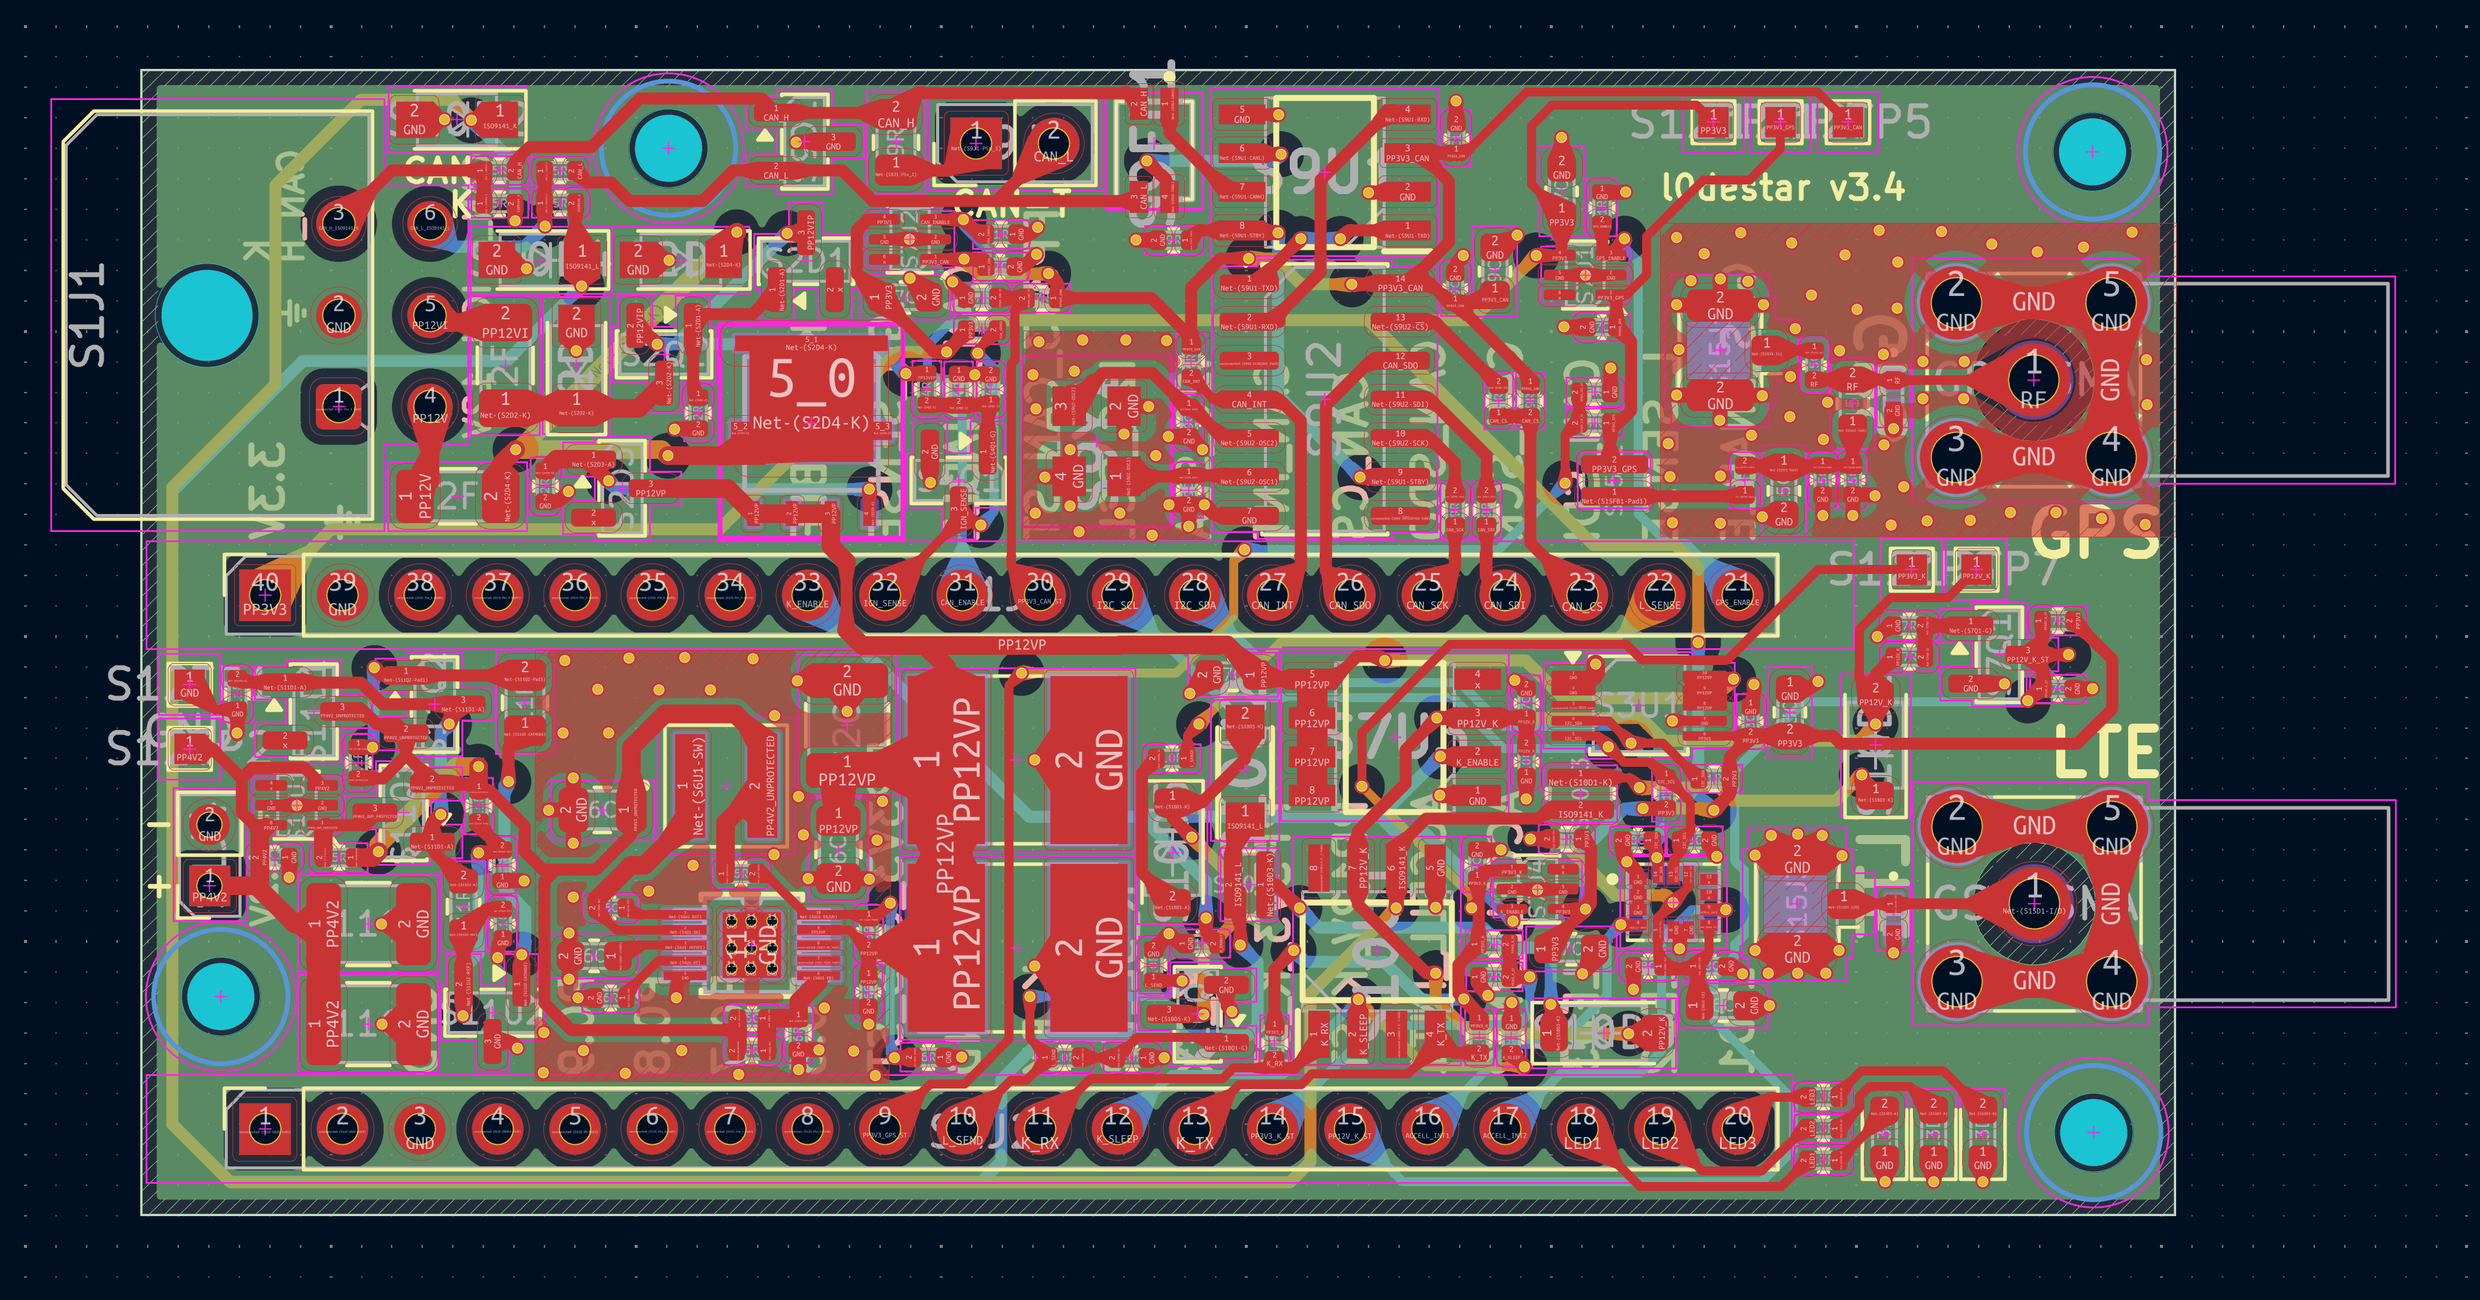
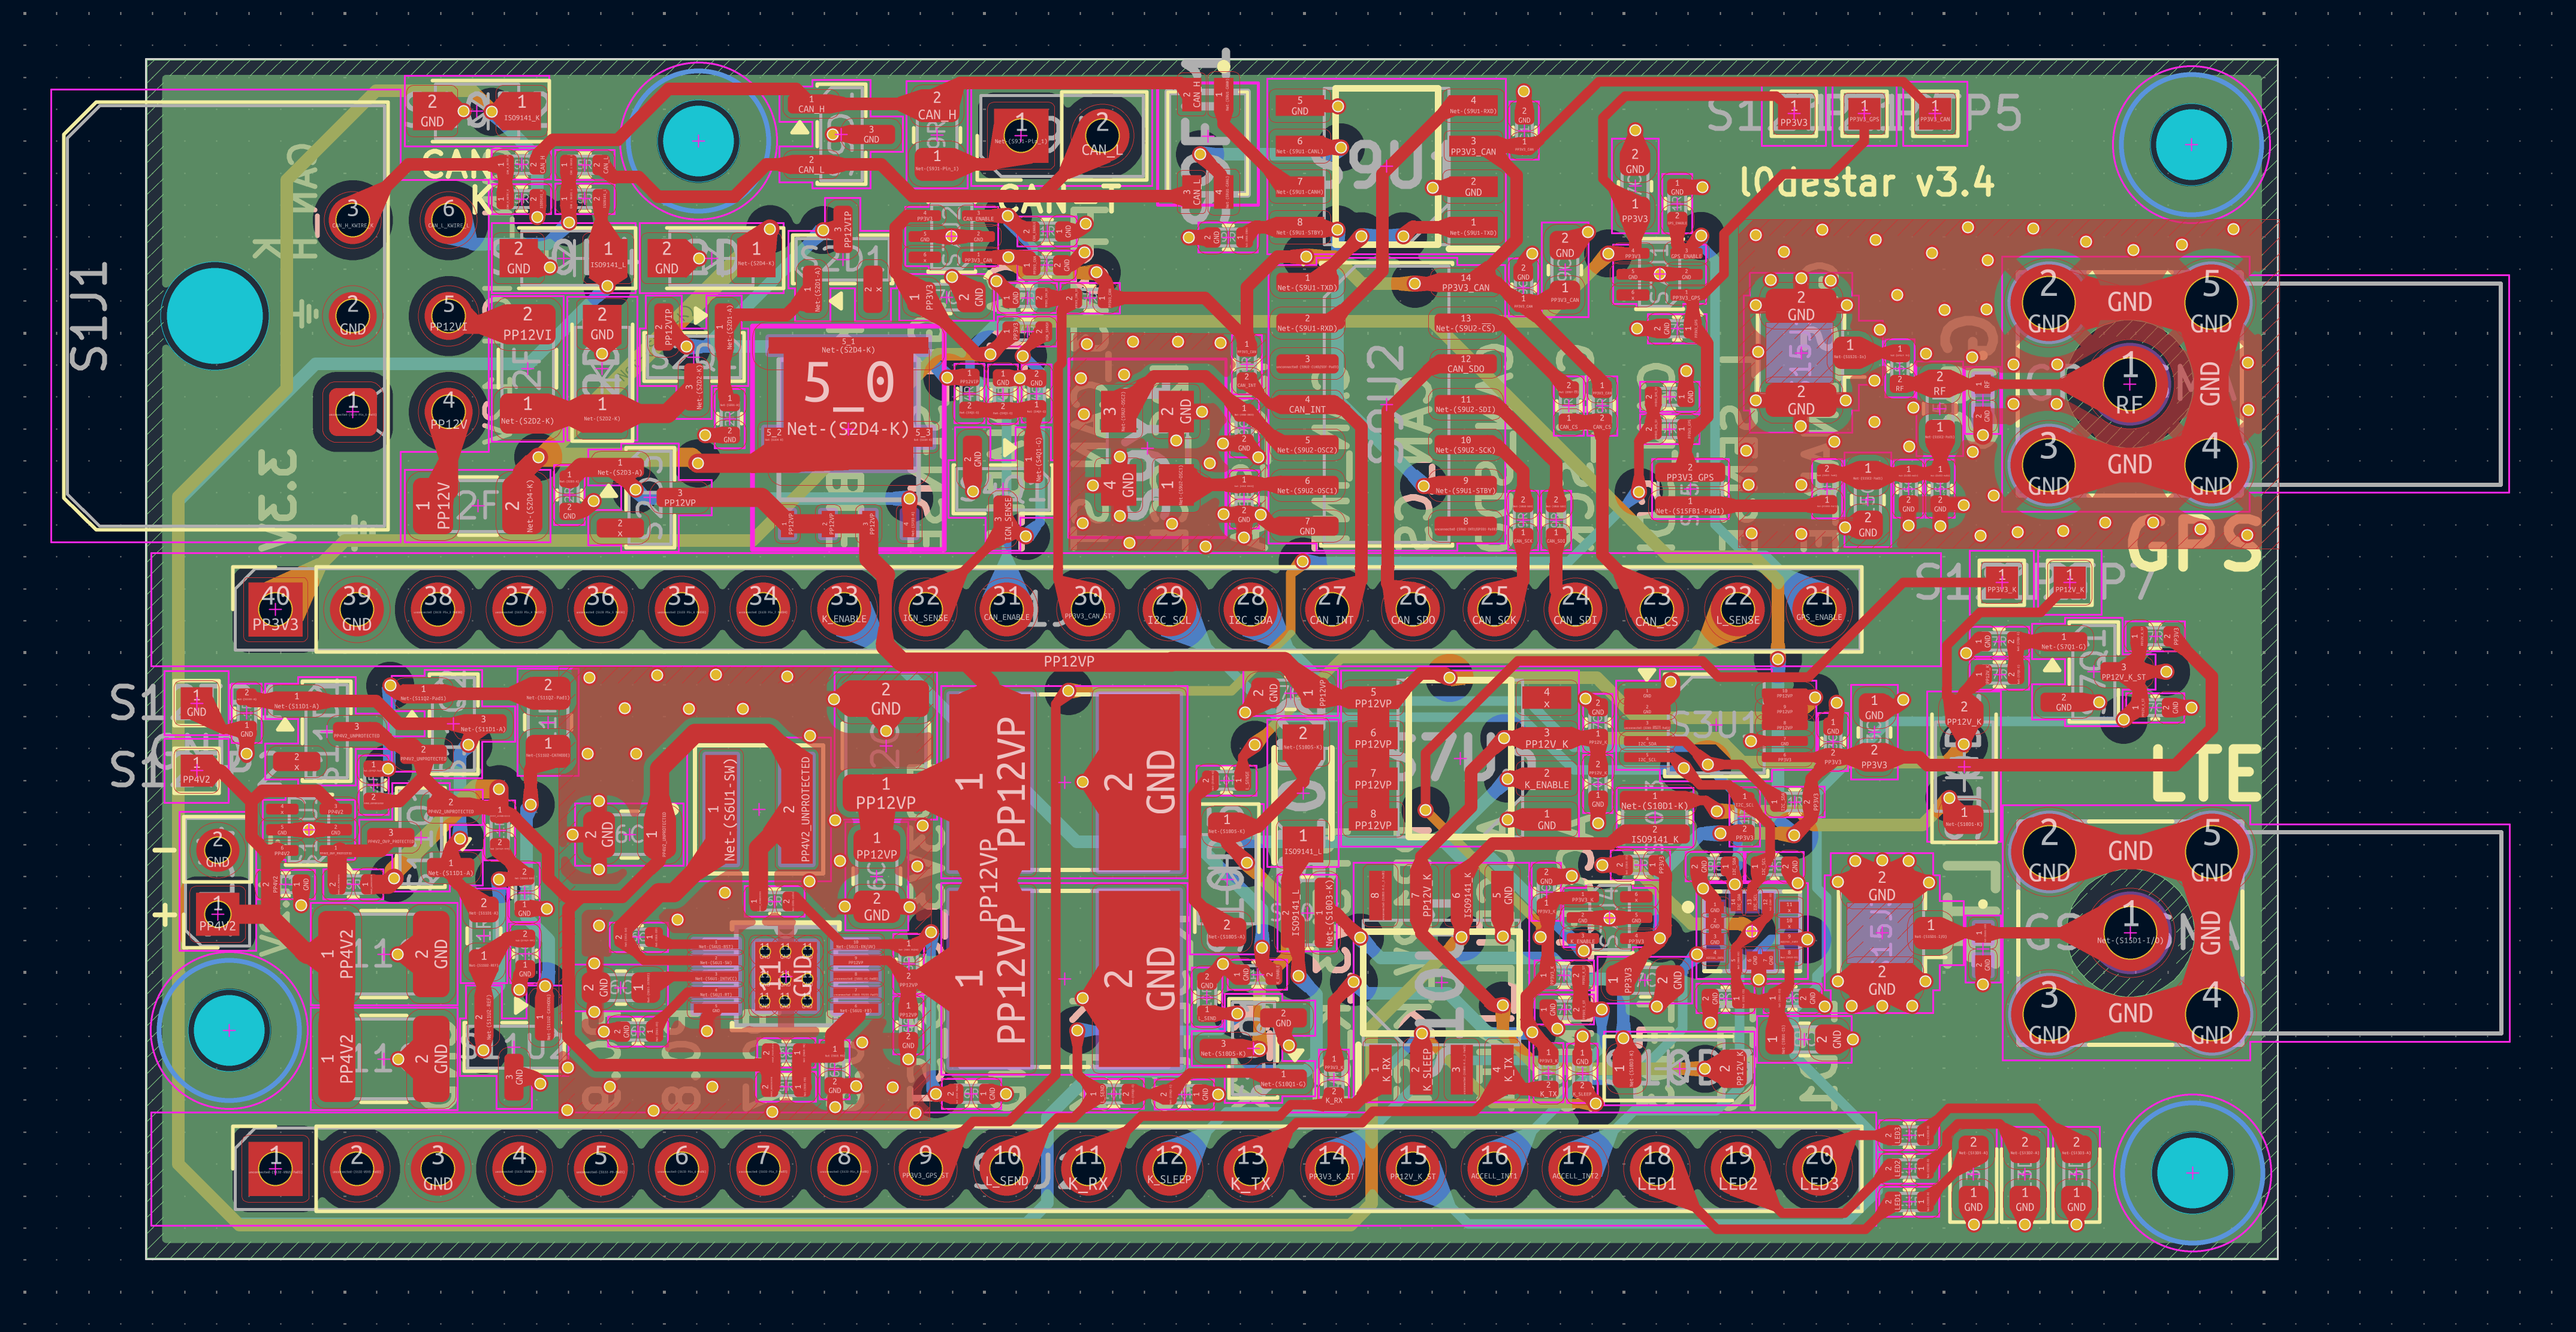
remove ESD diodes

diff --git a/hardware/l0destar_v3.4/README.md b/hardware/l0destar_v3.4/README.md
@@ -111,7 +111,6 @@ feeds have also been recalculated for the JLC04161H-7628 stack-up.
  - 12V live and 12V ignition inputs with TVS and reverse polarity protection
  - Enhanced input protection sized for pulse 2a at the ISO 7637-2:2011 maximum
  - Onboard 2A fusing
- - ESD protection at the external antenna connectors
  - Ignition presence sensing
  - INA228 voltage reading
  - High efficiency buck converter
@@ -386,8 +385,8 @@ separate load switches.
 | S15C2 | 100pF RF capacitor | 0402 >= 50V 5% C0G / NP0 | [0402N101J500CT](https://uk.farnell.com/multicomp-pro/0402n101j500ct/cap-100pf-50v-5-c0g-np0-0402/dp/2496792) | |
 | S15C3 | 10nF RF capacitor | 0402 >= 50V 5% C0G / NP0 | [GRM1555C1H103JE01D](https://uk.farnell.com/murata/grm1555c1h103je01d/cap-mlcc-0-01uf-5-c0g-50vdc-0402/dp/4803046RL) | |
 | S15C4 | 2.2uF capacitor | 0603 >= 25V 10% X7R | [GRM188Z71E225KE43D](https://uk.farnell.com/murata/grm188z71e225ke43d/cap-mlcc-2-2uf-x7r-25v-0603/dp/4335731) | |
-| S15D1 | ESD protection diode (GSM path) | TPD1E05U06DPYR X1SON-2 | [TPD1E05U06DPYR](https://www.digikey.com/en/products/detail/texas-instruments/TPD1E05U06DPYR/3844805) | |
-| S15D2 | ESD protection diode (GPS path) | TPD1E05U06DPYR X1SON-2 | [TPD1E05U06DPYR](https://www.digikey.com/en/products/detail/texas-instruments/TPD1E05U06DPYR/3844805) | |
+| S15D1 | DNP - ESD protection diode (GSM path) | DNP - not necessary | | |
+| S15D2 | DNP - ESD protection diode (GPS path) | DNP - not necessary | | |
 | S15R1 | Bias tee feed resistor | 0508 15R 5% 1W | [3430A2F15RTDF](https://uk.farnell.com/cgs-te-connectivity/3430a2f15rtdf/res-15r-1w-thick-film-0508-wide/dp/4206818) | |
 | - | u.FL cable - LTE | 50 ohm 35mm | [U.FL-2LPHF6-04N1TV-A-35](https://uk.farnell.com/hirose-hrs/u-fl-2lphf6-04n1tv-a-35/cbl-assy-u-fl-r-a-plug-r-a-plug/dp/4294251) | |
 | - | u.FL cable - GPS | 50 ohm 35mm | [U.FL-2LPHF6-04N1TV-A-35](https://uk.farnell.com/hirose-hrs/u-fl-2lphf6-04n1tv-a-35/cbl-assy-u-fl-r-a-plug-r-a-plug/dp/4294251) | |
@@ -551,7 +550,6 @@ buck enable divider. Quantities are per board.
 | All | MOSFET | 1 | 2N7002 SOT-23 | [2N7002](https://uk.farnell.com/multicomp-pro/2n7002/mosfet-n-ch-60v-0-115a-sot-23/dp/4295174) | |
 | All | 15V Zener diode | 3 | BZX84C15 | [BZX84C15](https://uk.farnell.com/multicomp-pro/bzx84c15/zener-diode-0-3w-15v-sot-23/dp/2675186) | |
 | All | 400W TVS diode | 2 | PTVS33VS1UTR,115 SOD-123W | [PTVS33VS1UTR,115](https://uk.farnell.com/nexperia/ptvs33vs1utr-115/tvs-diode-aecq101-unidir-33v-400w/dp/3440137) | |
-| All | ESD protection diode | 2 | TPD1E05U06DPYR X1SON-2 | [TPD1E05U06DPYR](https://www.digikey.com/en/products/detail/texas-instruments/TPD1E05U06DPYR/3844805) | 1x GSM path, 1x GPS path |
 | All | Ideal diode | 1 | LM66100 | [LM66100](https://www.aliexpress.com/item/1005008565117953.html) | |
 | All | INA228 voltage read IC | 1 | INA228 10-VSSOP | [INA228](https://www.aliexpress.com/item/1005008704299153.html) | |
 | All | Buck converter | 1 | LT8609AIMSE MSOP-EP-10 | [LT8609AIMSE#PBF](https://uk.farnell.com/analog-devices/lt8609aimse-pbf/dc-dc-conv-sync-buck-2mhz-125deg/dp/4025049) | |

diff --git a/hardware/CHANGELOG.md b/hardware/CHANGELOG.md
@@ -3,6 +3,11 @@
 Changes to the PCB designs over time, newest first. Boards no longer in the
 tree are noted where they were removed.
 
+## 25/09/2026
+
+- Removed the ESD diodes from the SMA connectors, these are unnecessary and
+  detrimental to signal performance.
+
 ## 12/09/2026
 
 - Swapped MAX33041EASA+ for TCAN3414DR in v3.4. Identical footprint/pinout
